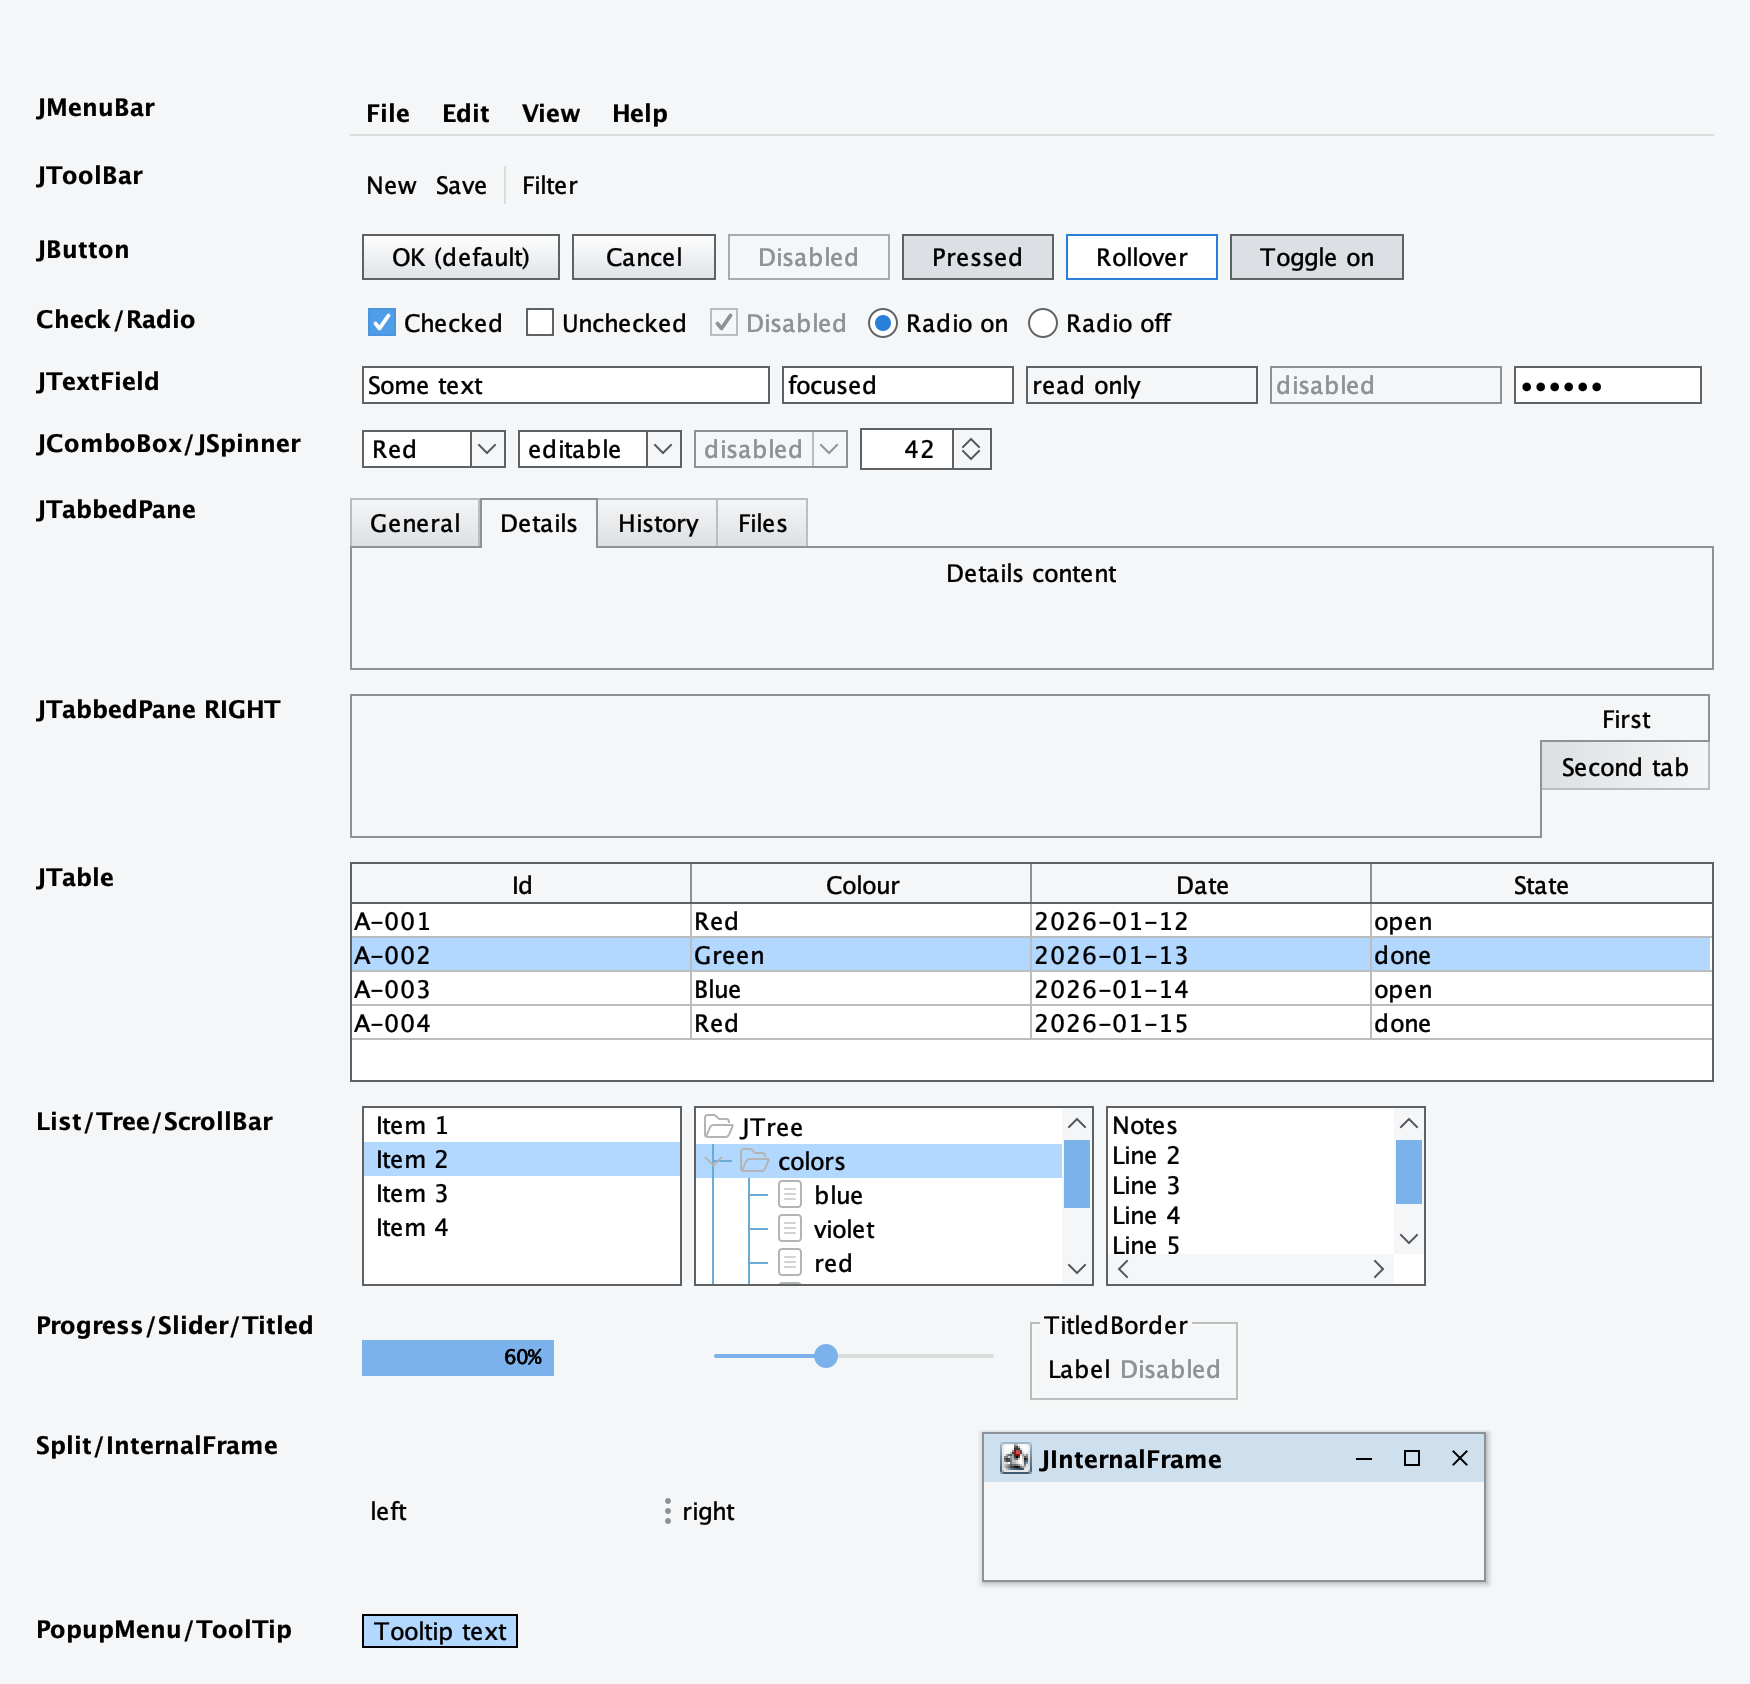
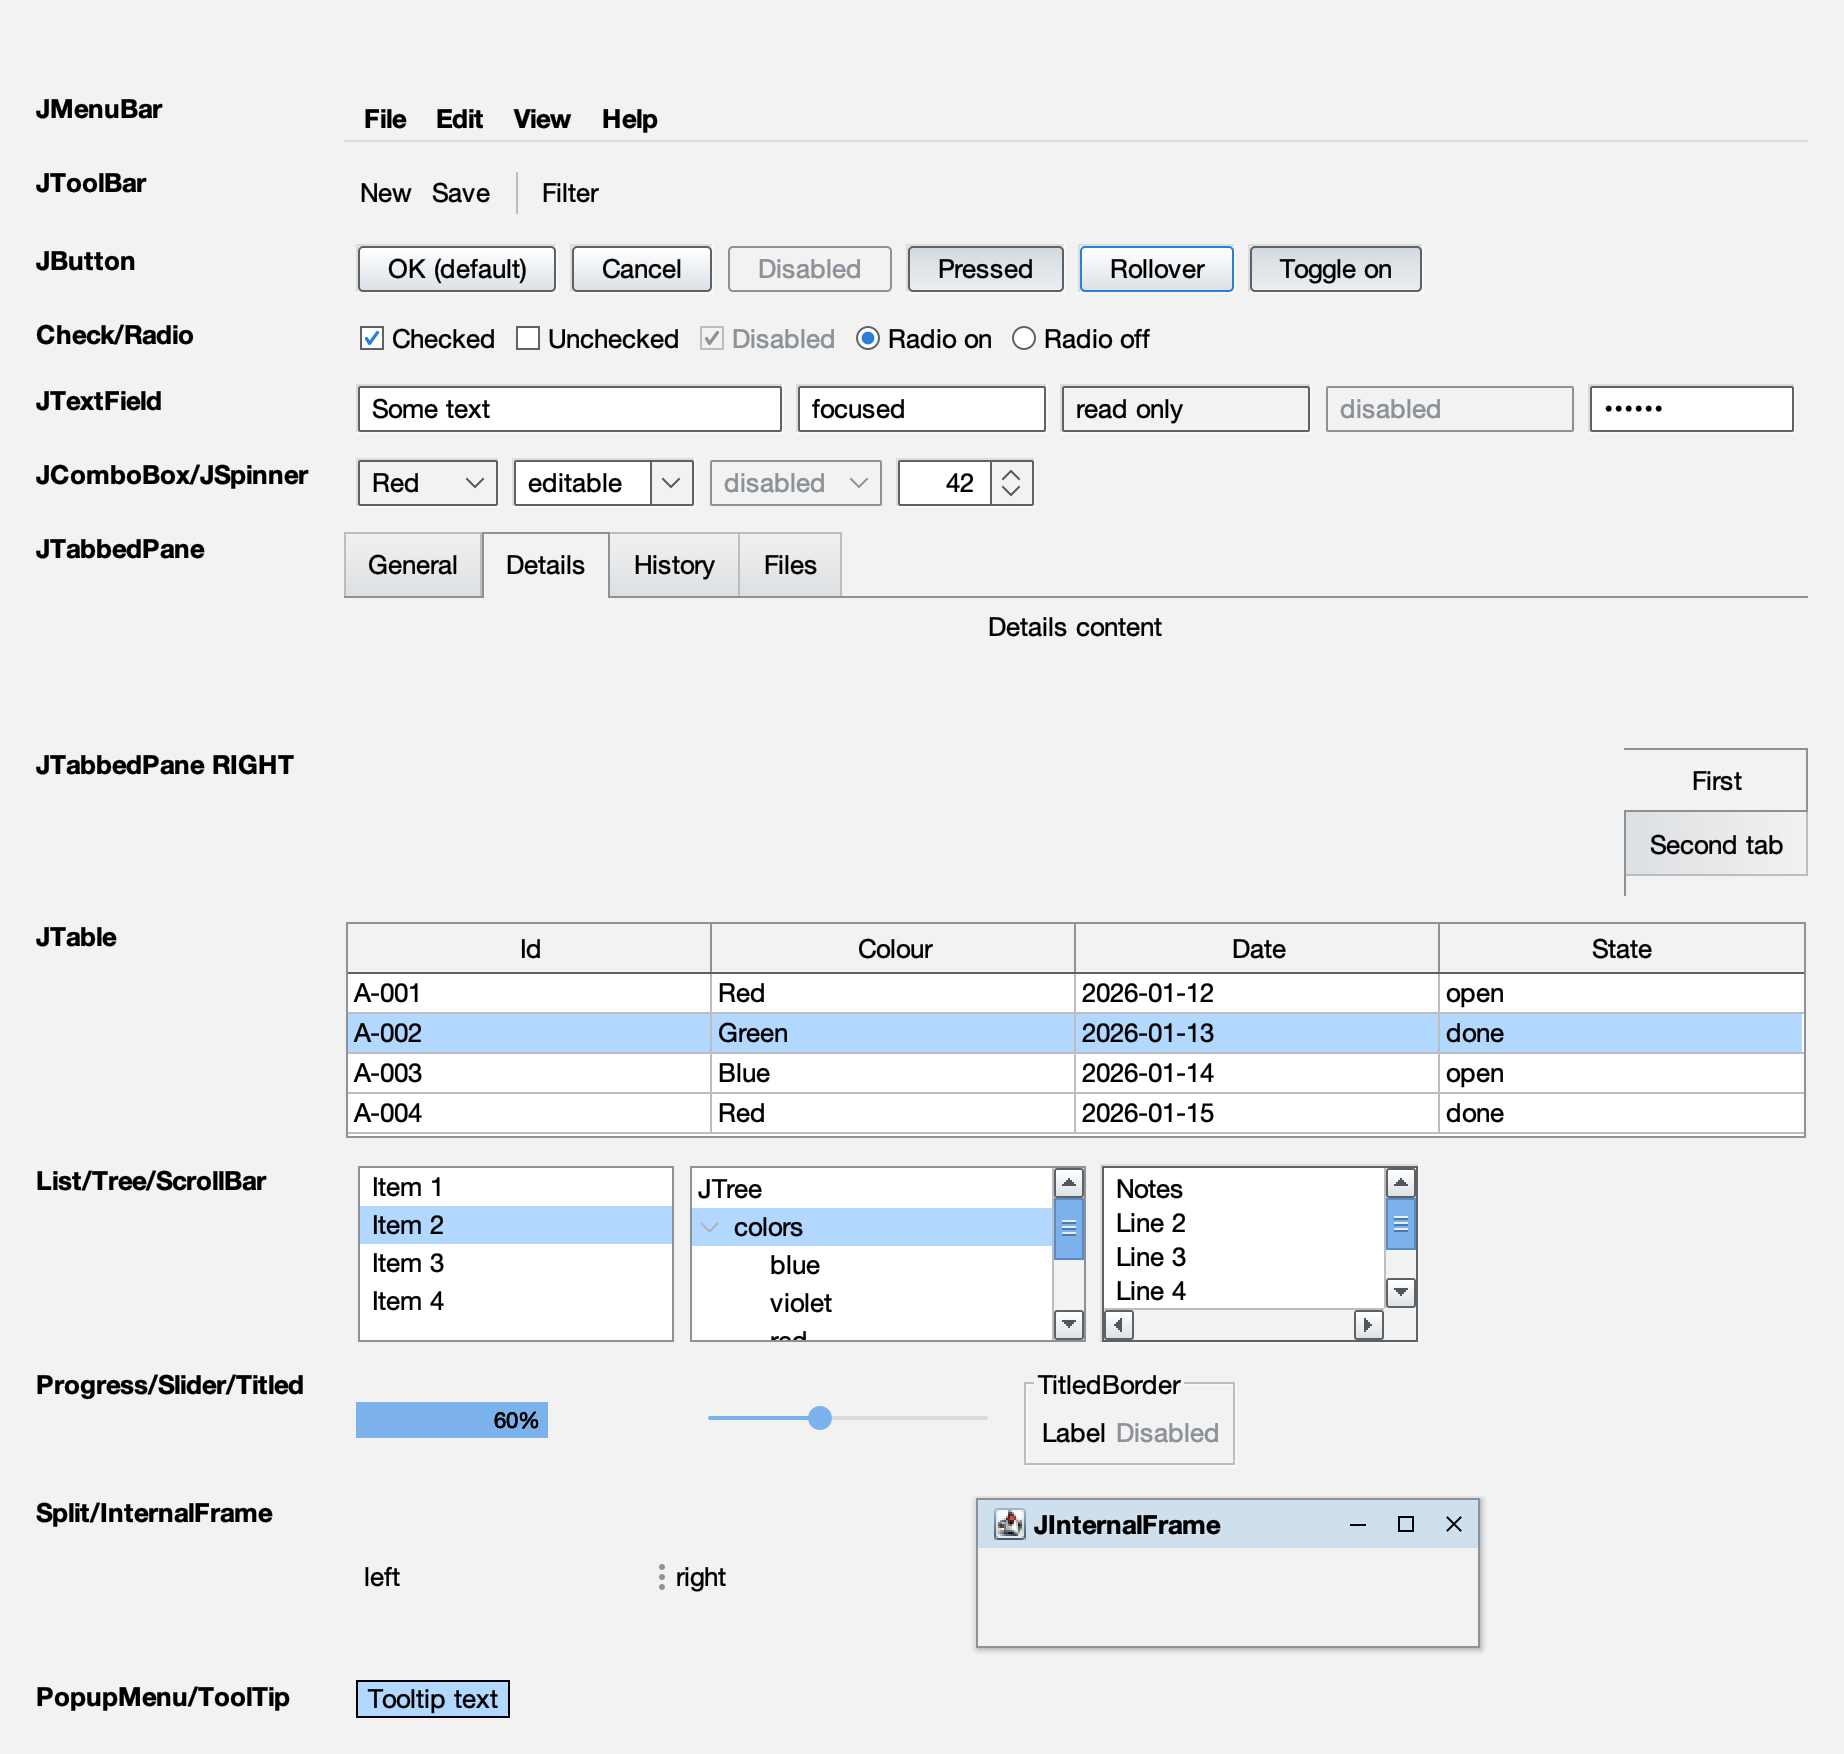
Retake the gallery screenshots, and add one on Linux
The pictures in the README show the current look on Windows, macOS and Linux, all from LagoonGallery at 2x.

diff --git a/README.md b/README.md
@@ -8,9 +8,10 @@ A classic light theme for [FlatLaf](https://www.formdev.com/flatlaf/).
 <p>
   <img src="docs/gallery-windows.png" alt="The Lagoon theme on Windows: buttons, check boxes, text fields, combo boxes, framed tabs, a table with a grid, a list, a tree, scroll bars and an internal frame" width="49%">
   <img src="docs/gallery-macos.png" alt="The same components with the Lagoon theme on macOS" width="49%">
+  <img src="docs/gallery-linux.png" alt="The same components with the Lagoon theme on Linux" width="49%">
 </p>
 
-<sub>Windows (left) and macOS (right): <code>LagoonGallery</code>, captured at 2x with
+<sub>Windows (top left), macOS (top right) and Linux (below): <code>LagoonGallery</code>, captured at 2x with
 <a href="https://github.com/kormcrete/swing-ui-agent">swing-ui-agent</a>.</sub>
 
 A neutral grey palette, softened corners, one-pixel dark frames set in a light ring, bevelled buttons, framed card
